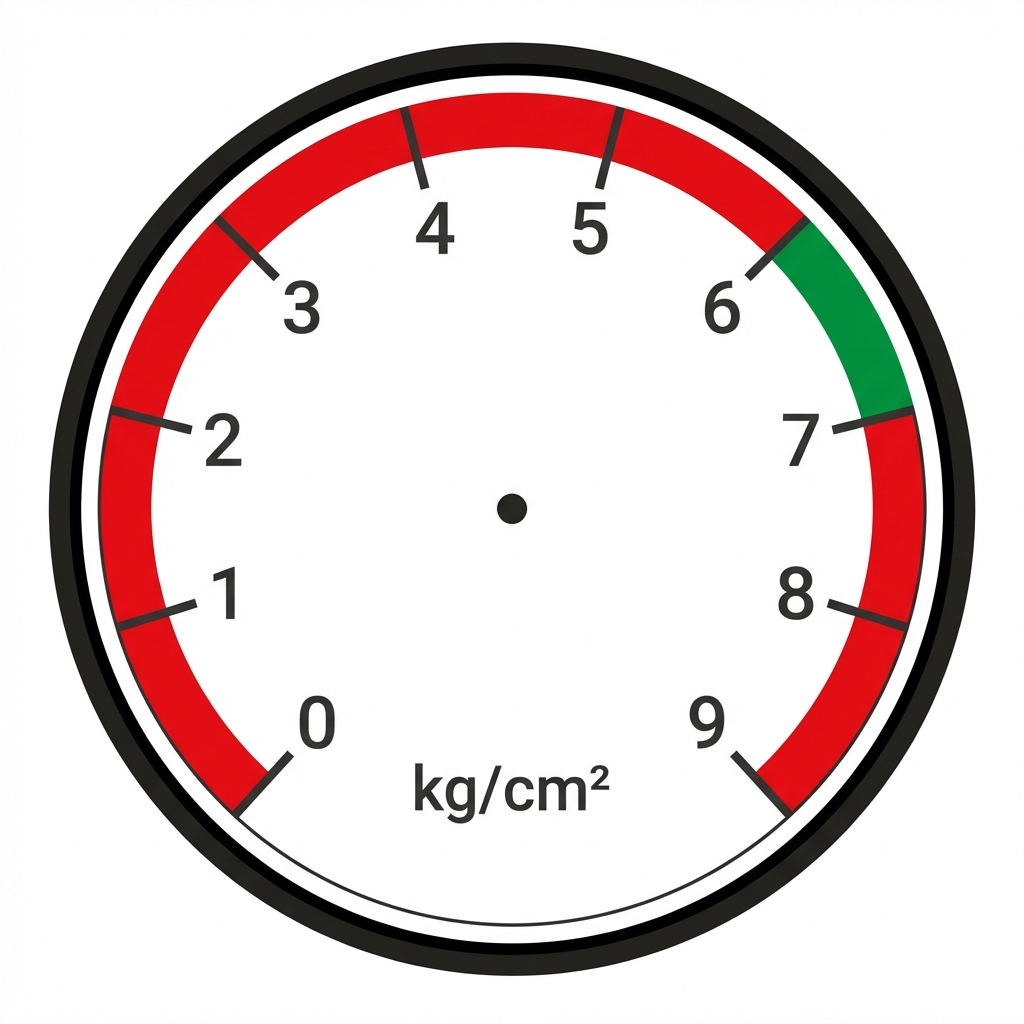
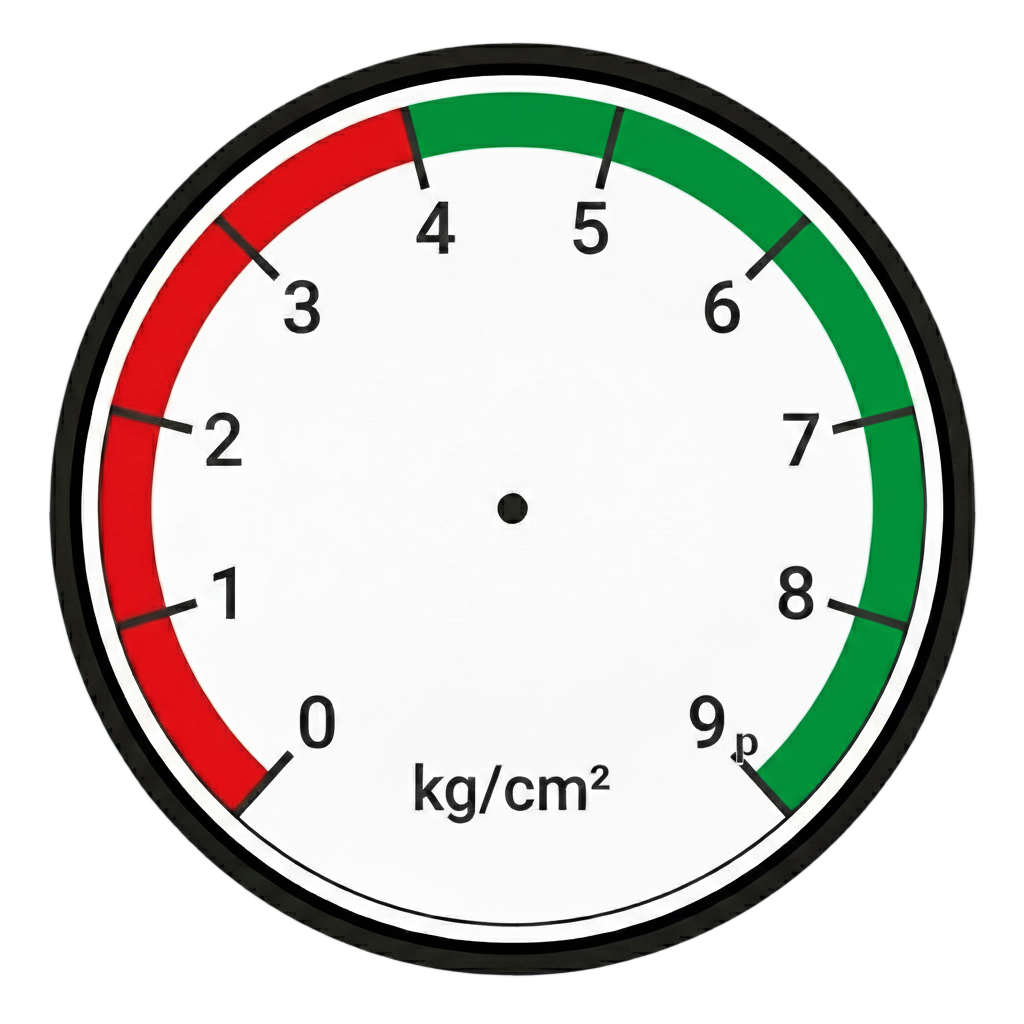
Fix battery voltage display, update pressure threshold, add persistent login session
- Fix batteryVolts field name mismatch across all pages (dashboard, alarms, pumps, analytics, history)
- Update pipeline pressure threshold from 6 to 4.15 kg/cm²
- Add 30-day persistent session for auto-login
- Fix pressure gauge image filename typo

diff --git a/templates/index.html b/templates/index.html
@@ -77,7 +77,8 @@
                     </div>
                     <!-- Mobile: Logo + Brand Name -->
                     <div class="mobile-brand mobile-only">
-                        <img src="{{ url_for('static', filename='images/Logo.png') }}" alt="Eagle AI" class="mobile-brand-logo">
+                        <img src="{{ url_for('static', filename='images/Logo.png') }}" alt="Eagle AI"
+                            class="mobile-brand-logo">
                         <div class="mobile-brand-text">
                             <span class="mobile-brand-name">EAGLE AI</span>
                             <span class="mobile-brand-sub">FOTIA</span>
@@ -109,8 +110,10 @@
                     </div>
                     <div class="user-dropdown" id="mobileUserDropdown">
                         <div class="user-dropdown-header">
-                            <span class="user-dropdown-name">{{ session.get('name', session.get('username', 'User')) }}</span>
-                            <span style="display:block; font-size: 0.8em; color: var(--text-secondary);">{{ session.get('role', 'Role') }}</span>
+                            <span class="user-dropdown-name">{{ session.get('name', session.get('username', 'User'))
+                                }}</span>
+                            <span style="display:block; font-size: 0.8em; color: var(--text-secondary);">{{
+                                session.get('role', 'Role') }}</span>
                         </div>
                         <a href="{{ url_for('logout') }}" class="user-dropdown-item text-danger">
                             <span class="material-icons-round" style="font-size: 20px;">logout</span>
@@ -188,7 +191,7 @@
 
                     <div class="gauge-wrapper">
                         <div class="gauge-container">
-                            <img src="{{ url_for('static', filename='images/pressure_guage.png') }}" class="gauge-face"
+                            <img src="{{ url_for('static', filename='images/pressure_gauge.png') }}" class="gauge-face"
                                 alt="Pressure Gauge">
                             <div class="gauge-needle" id="pressureNeedle"></div>
                             <div class="gauge-center-cap"></div>

diff --git a/templates/alarms.html b/templates/alarms.html
@@ -214,7 +214,7 @@
                     <div class="alarm-card" id="card-pressure">
                         <div class="alarm-info">
                             <div class="alarm-title">Fire Hydrant Line Pressure</div>
-                            <div class="alarm-condition">Condition: &lt; 6 kg/cm²</div>
+                            <div class="alarm-condition">Condition: &lt; 4.15 kg/cm²</div>
                             <div class="text-xs text-secondary mt-1">Current: <span id="val-pressure">--</span> kg/cm²
                             </div>
                         </div>
@@ -404,7 +404,7 @@
 
                 // 1. Pressure
                 const pressure = (data.pressure !== undefined) ? data.pressure : (data.Pressure || 0);
-                count += updateStatus('pressure', pressure < 6, pressure);
+                count += updateStatus('pressure', pressure < 4.15, pressure);
 
                 // 2-4. Pumps (Helper to check snake_case, camelCase, and Nested objects)
                 const getPumpStatus = (name) => {
@@ -465,7 +465,8 @@
                 count += updateStatus('diesel-level', dieselLevel < 95, dieselLevel);
 
                 // 8. Battery Voltage
-                const batteryVolts = (data.battery_voltage !== undefined) ? data.battery_voltage :
+                const batteryVolts = (data.batteryVolts !== undefined) ? data.batteryVolts :
+                    (data.battery_voltage !== undefined) ? data.battery_voltage :
                     (data.batteryVoltage !== undefined) ? data.batteryVoltage : 0;
                 // Critical if outside 11.8 - 14.2
                 const batteryCritical = (batteryVolts < 11.8 || batteryVolts > 14.2);

diff --git a/static/js/dashboard.js b/static/js/dashboard.js
@@ -104,7 +104,7 @@ function updateDashboard(data) {
     if (pCard) pCard.classList.remove('status-critical');
 
     if (pStatus) {
-        if (pressure < 6) {
+        if (pressure < 4.15) {
             pStatus.textContent = "Low Pressure";
             pStatus.style.color = "var(--accent-red)";
             if (pCard) pCard.classList.add('status-critical'); // Add Red Pulse
@@ -174,7 +174,7 @@ function updateDashboard(data) {
     }
 
     // 5. BATTERY & DIESEL (New Sensors)
-    const batt = data.batteryVoltage || 0;
+    const batt = data.batteryVolts || data.batteryVoltage || data.battery_voltage || 0;
     document.getElementById('batteryValue').textContent = batt;
     pulse('batteryValue');
 
@@ -289,8 +289,8 @@ function updateDashboard(data) {
 function calculateAlarms(data) {
     let count = 0;
 
-    // 1. Pressure < 6
-    if ((parseFloat(data.pressure) || 0) < 6) count++;
+    // 1. Pressure < 4.15
+    if ((parseFloat(data.pressure) || 0) < 4.15) count++;
 
     // 2-4. Pumps ON (Check inside data.pumps)
     const pumps = data.pumps || data.Pumps || {};
@@ -322,7 +322,7 @@ function calculateAlarms(data) {
     if (diesel < 95) count++;
 
     // 8. Battery Voltage ( < 11.8 or > 14.2 )
-    const batt = parseFloat(data.batteryVoltage || data.battery_voltage || 0);
+    const batt = parseFloat(data.batteryVolts || data.batteryVoltage || data.battery_voltage || 0);
     if (batt < 11.8 || batt > 14.2) count++;
 
     // Update UI

diff --git a/templates/pumps.html b/templates/pumps.html
@@ -382,8 +382,8 @@
         function calculateAlarms(data) {
             let count = 0;
 
-            // 1. Pressure < 6
-            if ((parseFloat(data.pressure) || 0) < 6) count++;
+            // 1. Pressure < 4.15
+            if ((parseFloat(data.pressure) || 0) < 4.15) count++;
 
             // 2-4. Pumps ON (Check inside data.pumps)
             const pumps = data.pumps || data.Pumps || {};
@@ -415,7 +415,7 @@
             if (diesel < 95) count++;
 
             // 8. Battery Voltage ( < 11.8 or > 14.2 )
-            const batt = parseFloat(data.batteryVoltage || data.battery_voltage || 0);
+            const batt = parseFloat(data.batteryVolts || data.batteryVoltage || data.battery_voltage || 0);
             if (batt < 11.8 || batt > 14.2) count++;
 
             // Update UI

diff --git a/templates/analytics.html b/templates/analytics.html
@@ -301,8 +301,8 @@
         function calculateAlarms(data) {
             let count = 0;
 
-            // 1. Pressure < 6
-            if ((parseFloat(data.pressure) || 0) < 6) count++;
+            // 1. Pressure < 4.15
+            if ((parseFloat(data.pressure) || 0) < 4.15) count++;
 
             // 2-4. Pumps ON (Check inside data.pumps)
             const pumps = data.pumps || data.Pumps || {};
@@ -333,7 +333,7 @@
             if (diesel < 95) count++;
 
             // 8. Battery Voltage
-            const batt = parseFloat(data.batteryVoltage || data.battery_voltage || 0);
+            const batt = parseFloat(data.batteryVolts || data.batteryVoltage || data.battery_voltage || 0);
             if (batt < 11.8 || batt > 14.2) count++;
 
             // Update UI

diff --git a/static/js/history.js b/static/js/history.js
@@ -234,8 +234,8 @@ onValue(liveDataRef, (snapshot) => {
 function calculateAlarms(data) {
     let count = 0;
 
-    // 1. Pressure < 6
-    if ((parseFloat(data.pressure) || 0) < 6) count++;
+    // 1. Pressure < 4.15
+    if ((parseFloat(data.pressure) || 0) < 4.15) count++;
 
     // 2-4. Pumps ON
     const pumps = data.pumps || data.Pumps || {};
@@ -262,7 +262,7 @@ function calculateAlarms(data) {
     if (diesel < 95) count++;
 
     // 8. Battery Voltage ( < 11.8 or > 14.2 )
-    const batt = parseFloat(data.batteryVoltage || data.battery_voltage || 0);
+    const batt = parseFloat(data.batteryVolts || data.batteryVoltage || data.battery_voltage || 0);
     if (batt < 11.8 || batt > 14.2) count++;
 
     // Update UI

diff --git a/history_tracker.py b/history_tracker.py
@@ -113,7 +113,7 @@ class HistoryTracker:
 
     def _check_battery(self, data):
         """Checks battery voltage (Range: 11.8 - 14.2)."""
-        volts = float(data.get('batteryVoltage') or data.get('battery_voltage') or 0)
+        volts = float(data.get('batteryVolts') or data.get('batteryVoltage') or data.get('battery_voltage') or 0)
         # Critical if below 11.8 or above 14.2
         current_status = "CRITICAL" if (volts < 11.8 or volts > 14.2) else "NORMAL"
         
@@ -126,9 +126,9 @@ class HistoryTracker:
             self.previous_battery_status = current_status
 
     def _check_pressure(self, data):
-        """Checks system pressure (Threshold: < 6.0 Bar)."""
+        """Checks system pressure (Threshold: < 4.15 kg/cm²)."""
         pressure = float(data.get('pressure') or 0)
-        current_status = "CRITICAL" if pressure < 6.0 else "NORMAL"
+        current_status = "CRITICAL" if pressure < 4.15 else "NORMAL"
         
         if self.previous_pressure_status != current_status:
             if current_status == "CRITICAL":

diff --git a/app.py b/app.py
@@ -1,4 +1,5 @@
 from flask import Flask, render_template, request, redirect, url_for, flash, session
+from datetime import timedelta
 import requests
 import json
 import os
@@ -9,6 +10,7 @@ import time
 
 app = Flask(__name__)
 app.secret_key = os.environ.get('SECRET_KEY', 'eagle_ai_super_secret_key_8822')
+app.config['PERMANENT_SESSION_LIFETIME'] = timedelta(days=30)
 
 # --- FIREBASE CONFIGURATION ---
 # Default/Fallback URL (can be used for unassigned admins or initial setup)
@@ -107,6 +109,7 @@ def login():
         user = auth_db.verify_user(username, password)
         if user:
             session.clear()
+            session.permanent = True
             session['user_id'] = user.get('id')
             session['username'] = user.get('username')
             session['name'] = user.get('name', user.get('username'))
